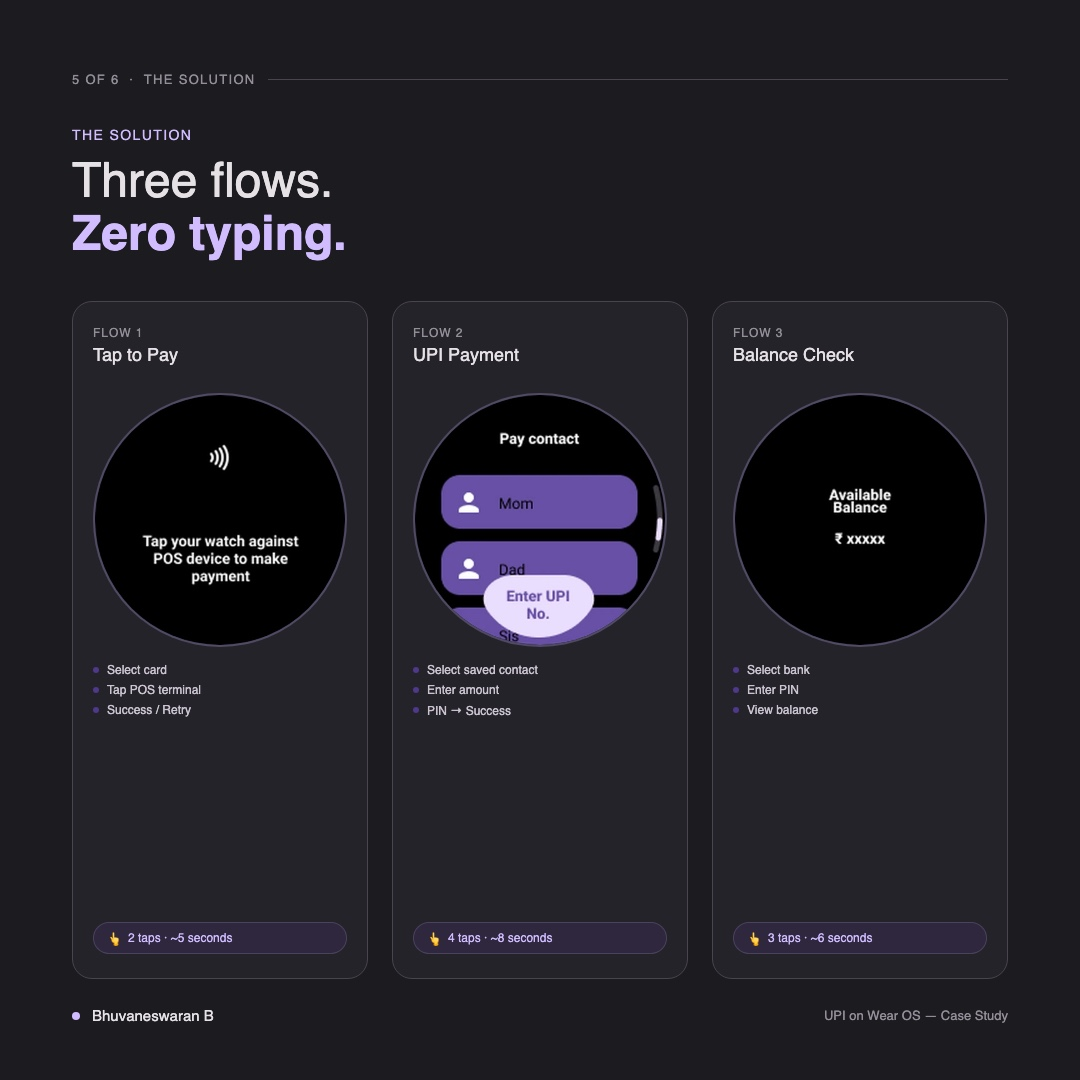
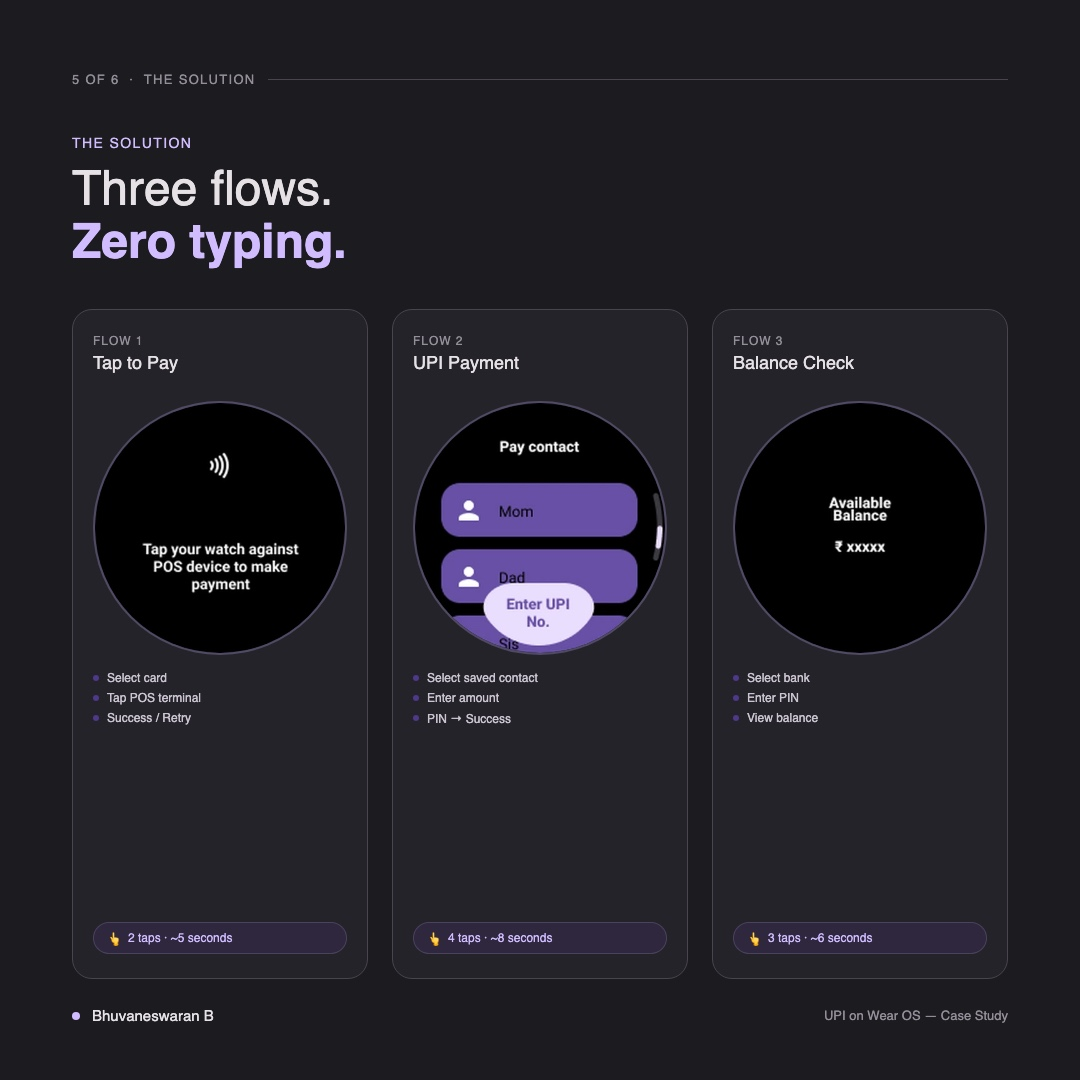
Standardise slide-num margin-bottom to 48px across all carousel slides
Was 56/52/48/48/40/48 — causing the n/6 indicator to appear at
different vertical positions when swiping. Now 48px on all 6 slides.

diff --git a/linkedin/carousel-01.html b/linkedin/carousel-01.html
@@ -32,7 +32,7 @@
     font-size: 13px; font-weight: 500;
     letter-spacing: 0.1em; text-transform: uppercase;
     color: #938F99;
-    margin-bottom: 56px;
+    margin-bottom: 48px;
     display: flex; align-items: center; gap: 12px;
   }
   .slide-num::after {

diff --git a/linkedin/carousel-02.html b/linkedin/carousel-02.html
@@ -28,7 +28,7 @@
   .slide-num {
     font-size: 13px; font-weight: 500; letter-spacing: 0.1em;
     text-transform: uppercase; color: #938F99;
-    margin-bottom: 52px;
+    margin-bottom: 48px;
     display: flex; align-items: center; gap: 12px;
   }
   .slide-num::after { content: ''; flex: 1; height: 1px; background: #49454F; }

diff --git a/linkedin/carousel-05.html b/linkedin/carousel-05.html
@@ -19,7 +19,7 @@
   .slide-num {
     font-size: 13px; font-weight: 500; letter-spacing: 0.1em;
     text-transform: uppercase; color: #938F99;
-    margin-bottom: 40px;
+    margin-bottom: 48px;
     display: flex; align-items: center; gap: 12px;
   }
   .slide-num::after { content: ''; flex: 1; height: 1px; background: #49454F; }